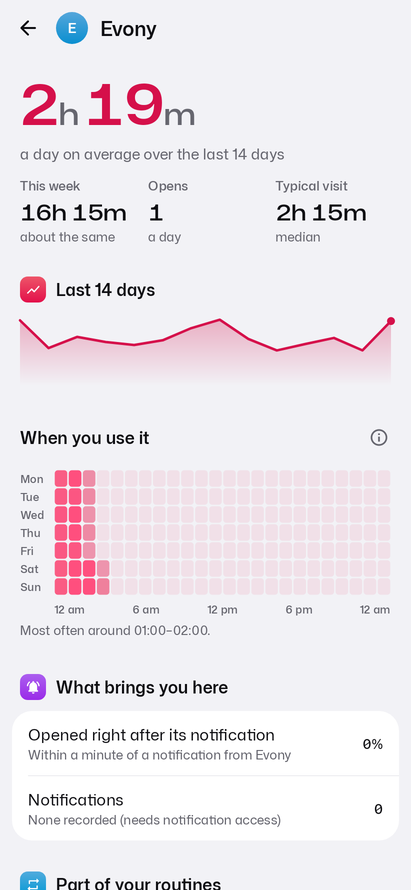
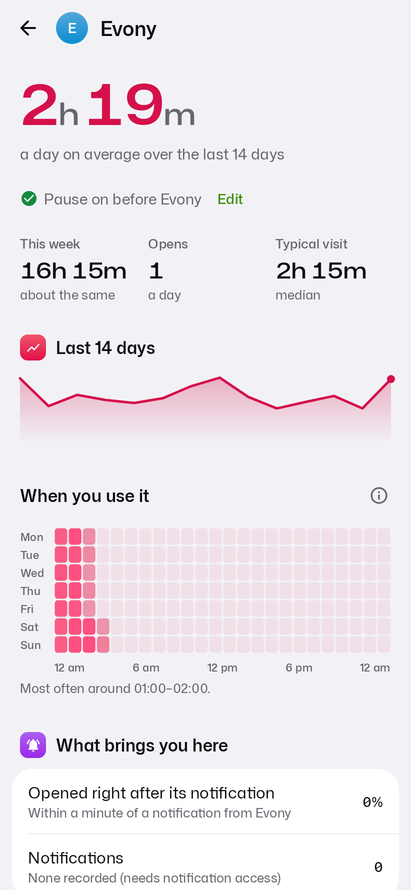
docs: README for 2.1 with new screenshots; the 2.0 README and its screenshots kept as README_2.0.md
Claude-Session: https://claude.ai/code/session_01Bwye9uu27nUsAm68HhJaTK

diff --git a/README_2.0.md b/README_2.0.md
@@ -1,0 +1,228 @@
+# HabitMiner Extended 📱🧠
+
+> **This is the README for HabitMiner Extended 2.0, kept for reference.** The current one is [README.md](README.md).
+
+**A context-aware digital habit, sleep and routine tracker for Android**
+
+[![License](https://img.shields.io/badge/License-MIT-blue.svg)](LICENSE)
+[![Kotlin](https://img.shields.io/badge/Kotlin-2.3-purple.svg)](https://kotlinlang.org/)
+[![Android](https://img.shields.io/badge/Android-8.0%2B-green.svg)](https://developer.android.com/)
+[![Version](https://img.shields.io/badge/Version-2.0-blue.svg)](#-whats-new-in-extended)
+
+HabitMiner Extended is the next version of [HabitMiner](README_OLD.md). It installs as its own app (**HM Extended**, `com.habitminer.extended`) next to the original, can bring the original's history across, and adds a redesigned interface, better sleep and nap tracking, goals, and a long list of accuracy fixes found by using it every day.
+
+Everything stays on the phone. There is no account and no server; data leaves the device only when you export it.
+
+---
+
+## 📸 Screenshots
+
+<p align="center">
+  <img src="docs/screenshots/extended-2.0/overview.png" alt="HabitMiner Extended: Today, Sleep, Trends, Goals and Status" width="100%">
+</p>
+
+<table>
+  <tr>
+    <td align="center" valign="top" width="33%">
+      <img src="docs/screenshots/extended-2.0/today.png" alt="Today" width="250"><br>
+      <b>Today</b><br>
+      <sub>Rings for screen time, pickups and phone-free time, today against a usual day at this hour, and your intention for the day.</sub>
+    </td>
+    <td align="center" valign="top" width="33%">
+      <img src="docs/screenshots/extended-2.0/today_dark.png" alt="Today, dark" width="250"><br>
+      <b>True-black dark mode</b><br>
+      <sub>One bright colour per measure, the same everywhere it appears: pink for screen time, lime for pickups, violet for sleep.</sub>
+    </td>
+    <td align="center" valign="top" width="33%">
+      <img src="docs/screenshots/extended-2.0/today_insight.png" alt="Insight of the day" width="250"><br>
+      <b>Insight of the day</b><br>
+      <sub>One thing that stood out, and why. Feedback is asked for only now and then, and steers what comes up.</sub>
+    </td>
+  </tr>
+  <tr>
+    <td align="center" valign="top" width="33%">
+      <img src="docs/screenshots/extended-2.0/sleep.png" alt="Sleep" width="250"><br>
+      <b>Sleep</b><br>
+      <sub>Last night with the reasons it looks like sleep, a fix-the-times sheet, and "Were you asleep?" after a nap.</sub>
+    </td>
+    <td align="center" valign="top" width="33%">
+      <img src="docs/screenshots/extended-2.0/sleep_week.png" alt="Sleep this week" width="250"><br>
+      <b>This week</b><br>
+      <sub>Each day's night with naps stacked on top and the nap time under the total. Tap a day for its details.</sub>
+    </td>
+    <td align="center" valign="top" width="33%">
+      <img src="docs/screenshots/extended-2.0/sleep_day.png" alt="A day's sleep" width="250"><br>
+      <b>A day's sleep</b><br>
+      <sub>The night, each nap with its own times, and the total. Fix the night, or add, change and remove naps.</sub>
+    </td>
+  </tr>
+  <tr>
+    <td align="center" valign="top" width="33%">
+      <img src="docs/screenshots/extended-2.0/trends_overview.png" alt="Trends" width="250"><br>
+      <b>Trends</b><br>
+      <sub>The last 7 days against the week before, biggest changes, today against a usual day, and the week heatmap.</sub>
+    </td>
+    <td align="center" valign="top" width="33%">
+      <img src="docs/screenshots/extended-2.0/trends_routines.png" alt="Routines" width="250"><br>
+      <b>Routines</b><br>
+      <sub>How predictable your next app is, measured against simple baselines, its latest guesses, and your app sequences.</sub>
+    </td>
+    <td align="center" valign="top" width="33%">
+      <img src="docs/screenshots/extended-2.0/trends_changes.png" alt="Changes" width="250"><br>
+      <b>Changes</b><br>
+      <sub>Days that differ from your usual ones, in both directions, and routine changes such as an exam week.</sub>
+    </td>
+  </tr>
+  <tr>
+    <td align="center" valign="top" width="33%">
+      <img src="docs/screenshots/extended-2.0/goals.png" alt="Goals" width="250"><br>
+      <b>Goals</b><br>
+      <sub>Soft targets: a daily intention, a phone-time target, apps to use less or more, and reminders. Nothing is blocked.</sub>
+    </td>
+    <td align="center" valign="top" width="33%">
+      <img src="docs/screenshots/extended-2.0/status.png" alt="Status" width="250"><br>
+      <b>Status</b><br>
+      <sub>Whether collection is working, a permission checklist, and what HabitMiner itself costs in battery.</sub>
+    </td>
+    <td align="center" valign="top" width="33%">
+      <img src="docs/screenshots/extended-2.0/weekly_story.png" alt="Weekly Story" width="250"><br>
+      <b>Weekly Story</b><br>
+      <sub>Your last seven days in a few cards, a month at a glance, and one small experiment to try.</sub>
+    </td>
+  </tr>
+  <tr>
+    <td align="center" valign="top" width="33%">
+      <img src="docs/screenshots/extended-2.0/today_mood.png" alt="Daily mood check" width="250"><br>
+      <b>Daily mood check</b><br>
+      <sub>Mood and energy in two taps, at a time you choose, so mood can be read against phone use over time.</sub>
+    </td>
+    <td align="center" valign="top" width="33%">
+      <img src="docs/screenshots/extended-2.0/today_import.png" alt="Import" width="250"><br>
+      <b>Bring your data across</b><br>
+      <sub>Import an export from the original HabitMiner: app use, readings, labels and places, with routines rebuilt.</sub>
+    </td>
+    <td align="center" valign="top" width="33%">
+      <img src="docs/screenshots/extended-2.0/onboarding.png" alt="First run" width="250"><br>
+      <b>First run</b><br>
+      <sub>What each permission is for, in plain words, before Android asks.</sub>
+    </td>
+  </tr>
+</table>
+
+<sub>Rendered by the app's screenshot tests (Robolectric) with two weeks of sample data, so the numbers are illustrative. Every push to <code>habitminer-extended</code> regenerates them on the <code>ci-out-habitminer-extended</code> branch. Locally: <code>./gradlew testDebugUnitTest --tests "*ScreenshotTest*"</code>, images in <code>android/app/build/screenshots</code>.</sub>
+
+---
+
+## ✨ Features
+
+**Tracking**
+- **Screen time, pickups and phone-free time** from Android's usage log, with the alarm screen, launchers and system screens left out. Each day counts only the time used in it, also for sessions that run past midnight.
+- **Sleep** from when the phone goes untouched at night, the step counter, darkness and charging. Quick checks, snoozed alarms and alarms you sleep through don't end the night; switching off your last alarm does. Optional Health Connect sleep and calendar busy times.
+- **Naps**: daytime stretches with the phone untouched and no steps prompt "Were you asleep?". Add, change and remove naps yourself, several a day.
+- **Surroundings**: light, motion (accelerometer, step counter and activity recognition), charging, headphones and, if you opt in, Wi-Fi places stored only as a salted hash.
+- **Notifications**: how many pickups followed a notification, per app counts only, never the text.
+
+**Understanding**
+- **Usual days**: every day is compared with up to four weeks of days of the same kind (weekday or weekend), using medians so a few odd days don't skew "usual". Today is compared at the same time of day.
+- **Changes** in both directions (total time, late nights, apps missing or spiking, unlocks, sleep) and routine changes over several days, which you can label (exams, travel, unwell, holiday) to keep them out of "usual".
+- **Next-app model** that learns from what usually follows the current app, the hour, recent apps, notifications, headphones and charging, with its hit rate measured against simple baselines.
+- **Insight of the day**, **Weekly Story**, and context insights such as screen time in the dark or after midnight.
+
+**Acting on it**
+- **Goals**: a daily intention, a phone-time target, apps to use less or more, and reminders when you're over.
+- **Gentle nudges**, an optional **mindful pause** and **focus sessions** (both off by default), a home-screen **widget**, a **Quick Settings tile** and app **shortcuts**.
+- **Quick check-ins** and **Expected / Unusual** answers are saved as ground-truth labels, with the context at the time.
+
+**Your data**
+- **Export** everything as a ZIP of CSV files with a README and schema, or a **privacy-safe** export with app names and keys replaced. **Import** exports from either app.
+- **Status** shows whether collection is working and HabitMiner's own CPU, wake-lock and sensor use as a share of battery.
+- **Updates**: checks for a new GitHub release once a day, verifies the download and installs it when you agree.
+
+---
+
+## 🆕 What's new in Extended
+
+### 2.0: redesign and new features
+- **Vivid redesign**: activity rings on Today, one bright colour per measure, true-black dark mode, coloured icon tiles and gradient charts, five tabs (Today, Trends, Sleep, Goals, Status) each with its own colour, and the Mona Sans typeface.
+- **Separate app** (`com.habitminer.extended`, "HM Extended") that can run next to the original, plus an import card on Today to bring your HabitMiner history across.
+- **Sleep accuracy**: fix-a-night (and HabitMiner learns how long you usually take to fall asleep), sleep evidence, Do Not Disturb, alarm and glance signals, optional Health Connect sleep and calendar busy times.
+- **Engagement**: insight of the day, questions sent at moments you're likely to answer, reminders, Weekly Story, mood check-ins.
+- **Control**: widget, Quick Settings tile, shortcuts, pause and breaks, choosing data sources, and a guide for Android's restricted settings.
+- **Battery**: readings driven by alarms instead of a long wake lock, an incremental usage log, one shared analysis for every screen, and a battery-cost stat on Status.
+- **Export and updates**: insight log and self-health in exports, a privacy-safe option, daily release check with verified install, and a release workflow.
+
+### Fixes from daily use (B1–B7)
+Seven bugs reported while using the app day to day, all fixed and checked against two full exports. Details, and before/after numbers, are in [docs/BUGS.md](docs/BUGS.md).
+
+| | Problem | What changed |
+|---|---|---|
+| B1 | A quiet alarm nobody heard counted as waking up, and as screen time | An alarm screen over the lock screen is no longer app use. A quickly snoozed alarm is a brief wake-up; one that rang out unheard isn't. |
+| B2 | Day totals missed use that ran past midnight | Sessions are split at midnight, so every total agrees with the heatmap. Stored data is repaired once. |
+| B3 | "On the move 307 times" | Needs the step counter or activity recognition, not a phone moved in your hand, and counts trips. |
+| B4 | A nap wasn't found, no nap notification, no way to add naps | Better nap detection, "Were you asleep?" sent for any nap of an hour or more, and naps added by hand (several a day). |
+| B5 | Week view lost per-day night and nap details | "This week" shows nap time per day; tap a day for the night, each nap and its times. |
+| B6 | Wake-up shown in the future | The learned adjustment can't pass now or your first real use; switching off your last alarm ends the night. |
+| B7 | Insight card kept asking for feedback; mood check rare | Thanks with Undo, then hidden for the day; feedback asked only now and then; mood check at a time you choose. |
+
+On the nights with corrected times, wake-up errors went from up to 163 minutes off to at most 20.
+
+---
+
+## 🏗 Architecture
+
+- **UI**: Jetpack Compose and Material 3 (Compose BOM 2025.12, Material 3 1.4), adaptive navigation, Glance widget.
+- **State**: unidirectional data flow with `StateFlow` and a Hilt `ViewModel`.
+- **Data**: Room 2.8 with an exported schema, repositories, and SharedPreferences for settings.
+- **Background**: a foreground service for collection with WorkManager as a fallback, and alarm-driven sensor readings.
+- **Analytics**: plain Kotlin in `analytics/` (sleep and nap detection, usual days, changes, next-app model, insights), with no Android dependencies so it's unit-tested directly.
+- **Build**: Kotlin 2.3, AGP 8.11, Hilt 2.57, KSP, minSdk 26, targetSdk 35, compileSdk 36, R8 for release builds.
+
+```text
+android/app/src/main/java/com/habitminer/
+├── collection/   usage log reader, sensors, device events (unlocks, alarms, Do Not Disturb)
+├── data/         Room entities and DAOs, import/export
+├── repository/   access to stored data for the rest of the app
+├── analytics/    pure Kotlin: sleep, naps, usual days, changes, routines, insights
+├── engine/       analysis pipeline and the ViewModel
+├── goals/        targets, intentions and reminders
+├── mindful/      mindful pause and focus sessions
+├── proactive/    questions, nudges, reminders, notifications
+├── update/       release check and install
+├── widget/       home-screen widget
+└── ui/           Compose screens and the design system
+```
+
+More background on the original design is in [docs/ARCHITECTURE.md](docs/ARCHITECTURE.md) and [docs/METHODOLOGY.md](docs/METHODOLOGY.md).
+
+---
+
+## 🚀 Getting started
+
+### Install
+Every push to `habitminer-extended` builds the APK in CI and publishes it on the `ci-out-habitminer-extended` branch as `HabitMinerExtended.apk`. It installs next to the original HabitMiner and keeps its data across updates.
+
+To bring your history across: in HabitMiner, open Settings and tap **Export data**, then share the ZIP to **HM Extended** (or use **Choose file** on the Today import card).
+
+### Build
+```bash
+cd android
+
+./gradlew testDebugUnitTest      # unit and screenshot tests
+./gradlew assembleDebug          # debug APK
+./gradlew assembleRelease        # release APK (R8)
+adb install -r app/build/outputs/apk/debug/app-debug.apk
+```
+
+Requires JDK 21 and a physical Android 8.0+ device; emulators don't produce realistic usage or sensor data.
+
+### Permissions
+- **Usage access**: which apps you use and when.
+- **Notification access**: notification counts per app, never their text.
+- **Physical activity**: steps and activity recognition, to tell walking from sitting.
+- **Battery optimisation off**: so Android doesn't stop collection in the background.
+- **Optional**: Health Connect (sleep), calendar (busy times), location (only to see the Wi-Fi network for places; no location is recorded).
+
+---
+
+## 📄 License
+Distributed under the MIT License. The README for HabitMiner 1.3.1 is kept as [README_OLD.md](README_OLD.md).

diff --git a/README.md b/README.md
@@ -5,9 +5,9 @@
 [![License](https://img.shields.io/badge/License-MIT-blue.svg)](LICENSE)
 [![Kotlin](https://img.shields.io/badge/Kotlin-2.3-purple.svg)](https://kotlinlang.org/)
 [![Android](https://img.shields.io/badge/Android-8.0%2B-green.svg)](https://developer.android.com/)
-[![Version](https://img.shields.io/badge/Version-2.0-blue.svg)](#-whats-new-in-extended)
+[![Version](https://img.shields.io/badge/Version-2.1-blue.svg)](#-whats-new-in-extended)
 
-HabitMiner Extended is the next version of [HabitMiner](README_OLD.md). It installs as its own app (**HM Extended**, `com.habitminer.extended`) next to the original, can bring the original's history across, and adds a redesigned interface, better sleep and nap tracking, goals, and a long list of accuracy fixes found by using it every day.
+HabitMiner Extended is the next version of [HabitMiner](README_OLD.md). It installs as its own app (**HM Extended**, `com.habitminer.extended`) next to the original, can bring the original's history across, and adds a redesigned interface, better sleep and nap tracking, goals, a long list of accuracy fixes found by using it every day, and (in 2.1) shorter daily loops: act on an insight in one tap, a mindful pause that tells you something, and a Today screen that ends.
 
 Everything stays on the phone. There is no account and no server; data leaves the device only when you export it.
 
@@ -19,12 +19,53 @@ Everything stays on the phone. There is no account and no server; data leaves th
   <img src="docs/screenshots/extended/overview.png" alt="HabitMiner Extended: Today, Sleep, Trends, Goals and Status" width="100%">
 </p>
 
+### New in 2.1
+
+<table>
+  <tr>
+    <td align="center" valign="top" width="33%">
+      <img src="docs/screenshots/extended/today_app_insight.png" alt="Insight with a one-tap pause" width="250"><br>
+      <b>From insight to action</b><br>
+      <sub>An insight about using one app more offers "Pause before…" or "Use less" in one tap. Once it's on your list, a quiet line says so instead.</sub>
+    </td>
+    <td align="center" valign="top" width="33%">
+      <img src="docs/screenshots/extended/mindful_pause.png" alt="Mindful pause with context" width="250"><br>
+      <b>A pause that tells you something</b><br>
+      <sub>How many times you've opened the app this hour or today, and how long a visit around now usually lasts. "Close" leads; "Open anyway" waits.</sub>
+    </td>
+    <td align="center" valign="top" width="33%">
+      <img src="docs/screenshots/extended/today_caught_up.png" alt="All caught up" width="250"><br>
+      <b>All caught up</b><br>
+      <sub>When nothing needs an answer, one quiet line and the next check-in. Today now ends at about a screen and a half.</sub>
+    </td>
+  </tr>
+  <tr>
+    <td align="center" valign="top" width="33%">
+      <img src="docs/screenshots/extended/today_morning.png" alt="Today in the morning" width="250"><br>
+      <b>Follows your day</b><br>
+      <sub>For three hours after you wake, Today leads with last night. During the day, today against a usual day.</sub>
+    </td>
+    <td align="center" valign="top" width="33%">
+      <img src="docs/screenshots/extended/today_evening.png" alt="Today in the evening" width="250"><br>
+      <b>Evening wrap-up</b><br>
+      <sub>From about 2½ hours before your usual bedtime (21:00 at the latest): where you are against your target, and when you usually fall asleep.</sub>
+    </td>
+    <td align="center" valign="top" width="33%">
+      <img src="docs/screenshots/extended/goals.png" alt="Goals with weekly dots" width="250"><br>
+      <b>5 of the last 7 days</b><br>
+      <sub>Seven dots for the target and each app, today as a ring still in progress. Rolling, so Monday never resets you to zero.</sub>
+    </td>
+  </tr>
+</table>
+
+### All screens
+
 <table>
   <tr>
     <td align="center" valign="top" width="33%">
       <img src="docs/screenshots/extended/today.png" alt="Today" width="250"><br>
       <b>Today</b><br>
-      <sub>Rings for screen time, pickups and phone-free time, today against a usual day at this hour, and your intention for the day.</sub>
+      <sub>Rings for screen time, pickups and phone-free time, today against a usual day at this hour, your intention, and one question or insight at a time.</sub>
     </td>
     <td align="center" valign="top" width="33%">
       <img src="docs/screenshots/extended/today_dark.png" alt="Today, dark" width="250"><br>
@@ -58,12 +99,12 @@ Everything stays on the phone. There is no account and no server; data leaves th
     <td align="center" valign="top" width="33%">
       <img src="docs/screenshots/extended/trends_overview.png" alt="Trends" width="250"><br>
       <b>Trends</b><br>
-      <sub>The last 7 days against the week before, biggest changes, today against a usual day, and the week heatmap.</sub>
+      <sub>The last 7 days against the week before, biggest changes, today against a usual day, the week heatmap, and your surroundings.</sub>
     </td>
     <td align="center" valign="top" width="33%">
       <img src="docs/screenshots/extended/trends_routines.png" alt="Routines" width="250"><br>
       <b>Routines</b><br>
-      <sub>How predictable your next app is, measured against simple baselines, its latest guesses, and your app sequences.</sub>
+      <sub>How predictable your next app is, measured against simple baselines, its latest guesses, and your app sequences. Tap a routine to put a pause on one of its apps.</sub>
     </td>
     <td align="center" valign="top" width="33%">
       <img src="docs/screenshots/extended/trends_changes.png" alt="Changes" width="250"><br>
@@ -73,7 +114,12 @@ Everything stays on the phone. There is no account and no server; data leaves th
   </tr>
   <tr>
     <td align="center" valign="top" width="33%">
-      <img src="docs/screenshots/extended/goals.png" alt="Goals" width="250"><br>
+      <img src="docs/screenshots/extended/app_detail.png" alt="App detail" width="250"><br>
+      <b>App detail</b><br>
+      <sub>Time per day, the last 14 days, when you use it, what brings you there, and a one-tap pause.</sub>
+    </td>
+    <td align="center" valign="top" width="33%">
+      <img src="docs/screenshots/extended/goals_dark.png" alt="Goals" width="250"><br>
       <b>Goals</b><br>
       <sub>Soft targets: a daily intention, a phone-time target, apps to use less or more, and reminders. Nothing is blocked.</sub>
     </td>
@@ -82,13 +128,13 @@ Everything stays on the phone. There is no account and no server; data leaves th
       <b>Status</b><br>
       <sub>Whether collection is working, a permission checklist, and what HabitMiner itself costs in battery.</sub>
     </td>
+  </tr>
+  <tr>
     <td align="center" valign="top" width="33%">
       <img src="docs/screenshots/extended/weekly_story.png" alt="Weekly Story" width="250"><br>
       <b>Weekly Story</b><br>
       <sub>Your last seven days in a few cards, a month at a glance, and one small experiment to try.</sub>
     </td>
-  </tr>
-  <tr>
     <td align="center" valign="top" width="33%">
       <img src="docs/screenshots/extended/today_mood.png" alt="Daily mood check" width="250"><br>
       <b>Daily mood check</b><br>
@@ -99,6 +145,8 @@ Everything stays on the phone. There is no account and no server; data leaves th
       <b>Bring your data across</b><br>
       <sub>Import an export from the original HabitMiner: app use, readings, labels and places, with routines rebuilt.</sub>
     </td>
+  </tr>
+  <tr>
     <td align="center" valign="top" width="33%">
       <img src="docs/screenshots/extended/onboarding.png" alt="First run" width="250"><br>
       <b>First run</b><br>
@@ -127,8 +175,8 @@ Everything stays on the phone. There is no account and no server; data leaves th
 - **Insight of the day**, **Weekly Story**, and context insights such as screen time in the dark or after midnight.
 
 **Acting on it**
-- **Goals**: a daily intention, a phone-time target, apps to use less or more, and reminders when you're over.
-- **Gentle nudges**, an optional **mindful pause** and **focus sessions** (both off by default), a home-screen **widget**, a **Quick Settings tile** and app **shortcuts**.
+- **Goals**: a daily intention, a phone-time target, apps to use less or more with "N of the last 7 days" dots, and reminders when you're over.
+- **One-tap pause** from insights, routines and app pages; **gentle nudges**, an optional **mindful pause** that shows how often you've opened the app, and **focus sessions** (both off by default), a home-screen **widget**, a **Quick Settings tile** and app **shortcuts**.
 - **Quick check-ins** and **Expected / Unusual** answers are saved as ground-truth labels, with the context at the time.
 
 **Your data**
@@ -139,6 +187,15 @@ Everything stays on the phone. There is no account and no server; data leaves th
 ---
 
 ## 🆕 What's new in Extended
+
+### 2.1: shorter daily loops
+- **Insight → action**: insights and differences about using one app more, each routine in Trends → Routines, and every app's detail page offer **Pause before opening** or **Use less** in one tap. Apps already on your list show "Pause on before Instagram" with an Edit link instead of the same buttons again, and if Android's Accessibility switch for the pause is off, the button takes you there.
+- **A mindful pause with context**: "This is your 6th time in Instagram in the last hour" and "Around this time, a visit usually lasts about 20m", from one quick query so the timer shows at once. **Close [app]** is the main button; **Open anyway** is secondary and waits for the timer.
+- **A shorter Today**: one raised card at a time (nap question, mood, insight, difference or routine change), and **All caught up** with the next check-in when nothing needs an answer. The hero follows your own day: last night for three hours after you wake, the comparison with a usual day after that, and a wrap-up from about 2½ hours before your usual bedtime (21:00 at the latest). Last night lives on Sleep, Around you on Trends, and Apps today shows the top three.
+- **Weekly goal counts**: "Under target on 5 of the last 7 days" with seven dots, today as a ring in progress, for the phone-time target and for each Use less / Use more app against its previous week.
+- **Widget offer**: once, after two days of data, and only if the launcher supports pinning and no Today widget is placed yet, Today offers to add it.
+
+The README for 2.0 is kept as [README_2.0.md](README_2.0.md).
 
 ### 2.0: redesign and new features
 - **Vivid redesign**: activity rings on Today, one bright colour per measure, true-black dark mode, coloured icon tiles and gradient charts, five tabs (Today, Trends, Sleep, Goals, Status) each with its own colour, and the Mona Sans typeface.
@@ -223,4 +280,4 @@ Requires JDK 21 and a physical Android 8.0+ device; emulators don't produce real
 ---
 
 ## 📄 License
-Distributed under the MIT License. The README for HabitMiner 1.3.1 is kept as [README_OLD.md](README_OLD.md).
+Distributed under the MIT License. The README for HabitMiner 1.3.1 is kept as [README_OLD.md](README_OLD.md), and the one for Extended 2.0 as [README_2.0.md](README_2.0.md).
